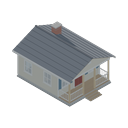
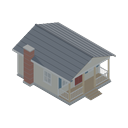
Structure rule: chimneys stand against an exterior wall; move the starter house chimney outside
The house's chimney stood in the middle of a room. It is now against the left exterior wall, from the ground up past the eaves.
The rule is in CLAUDE.md (3a) and docs/STRUCTURE_STAGES_GUIDE.md.

diff --git a/tools/make_house_stages.py b/tools/make_house_stages.py
@@ -375,14 +375,18 @@ def complete(b, c, M, glass, finishings=False):
         b.box(-0.82, 0.82, -d / 2 - 0.3 * (k + 1), -d / 2 - 0.3 * k, (z0 - 0.04) * (1 - (k + 1) * 0.28), (z0 - 0.04) * (1 - (k + 1) * 0.28) + 0.03, M['deck'])
     # the front door: its own object on a hinge, with panels and a small light
     door(parts['front'], c, M)
-    # brick chimney through the roof
-    cx, cy = 1.0, d / 2 - 1.6
-    b.box(cx - 0.4, cx + 0.4, cy - 0.3, cy + 0.3, z0, c.zr + 0.65, M['brick'])
-    b.box(cx - 0.46, cx + 0.46, cy - 0.36, cy + 0.36, c.zr + 0.6, c.zr + 0.72, M['concrete'])
-    for k in range(1, 8):                                                                                    # brick course lines
-        zz = z0 + 0.1 + k * 0.62
-        if zz < c.zr + 0.6:
-            b.box(cx - 0.41, cx + 0.41, cy - 0.31, cy + 0.31, zz, zz + 0.025, M['concrete_dark'])
+    # the chimney stands against an EXTERIOR wall (the left one), never inside a room (STRUCTURE_STAGES_GUIDE.md, rules): out from the wall
+    # by 0.5 m, from the ground up past the eaves, its last 0.1 m let into the wall
+    cy = d / 2 - 1.8
+    cx0, cx1 = -w / 2 - 0.5, -w / 2 + 0.1
+    ctop = c.zw + 1.0
+    b.box(cx0, cx1, cy - 0.45, cy + 0.45, 0.0, ctop, M['brick'])
+    b.box(cx0 - 0.06, cx1, cy - 0.51, cy + 0.51, ctop - 0.04, ctop + 0.08, M['concrete'])                    # the cap
+    b.box(cx0 - 0.06, cx1, cy - 0.51, cy + 0.51, c.z0 - 0.3, c.z0 - 0.05, M['concrete'])                     # the hearth's base course
+    for k in range(1, 7):                                                                                    # brick course lines, 6 mm proud
+        zz = 0.3 + k * 0.55
+        if zz < ctop - 0.1:
+            b.box(cx0 - 0.006, cx1, cy - 0.456, cy + 0.456, zz, zz + 0.025, M['concrete_dark'])
     # a downspout at the front corner
     b.box(w / 2 + 0.0, w / 2 + 0.07, c.yh0 - 0.1, c.yh0 - 0.03, z0, top - 0.1, M['trim'])
     for part in parts.values():

diff --git a/docs/STRUCTURE_STAGES_GUIDE.md b/docs/STRUCTURE_STAGES_GUIDE.md
@@ -118,6 +118,14 @@ in `starter_house.json` (`growth.stages[].construction_recipe` and `required_too
   manifest with `properties.look_*`, README), then `tools/finish_items_icons.py` renders their icons from the models. Add a row to `ITEMS`
   for a new finish; tags (`#paint`, `#flooring`, `#siding`, `#roofing`, `#brick`, `#chimney_masonry`) in `assets/_schemas/material_tags.json`.
 
+## Rules for structure models
+
+- **Chimneys stand against an exterior wall,** outside the footprint's walls, from the ground up past the eaves (the cabin's is on its -X wall,
+  the house's on its left wall): never in the middle of a room, where it would leave walkable space around it.
+- The shell has one door that is wide and tall enough for the player (1.2 m by 2.3 m) and walls clad or framed right up to the roof.
+- Layers that meet at a corner must not share a coplanar outer face (z-fighting): trim the side layers by the cladding thickness and let
+  corner boards stand 15 mm proud.
+
 ## 4. Checklist for a new structure
 
 1. Make sure `assets/structures/<id>/` has the group manifest and the four stage folders with stage manifests (the asset kit's growth group

diff --git a/CLAUDE.md b/CLAUDE.md
@@ -157,6 +157,12 @@ Every asset must live in `assets/<category>/<item_id>/`:
 
 ---
 
+## 3a. Structure Model Rules
+
+Building models follow [STRUCTURE_STAGES_GUIDE.md](file:///C:/Users/casey/Desktop/Homesteader/docs/STRUCTURE_STAGES_GUIDE.md): **a chimney stands against an EXTERIOR wall, never inside a room**;
+the door is 1.2 m by 2.3 m; walls reach the roof with no gap; layers meeting at a corner never share a coplanar outer face; parts are
+named objects (Foundation, Roof, Wall_*, WindowGlass, DoorHinge) and named materials (Log, Siding, Roof, Shingle, Interior, Floor, Masonry).
+
 ## 3b. Editor / Schema Sync Rule
 
 - Whenever a field changes in the asset kit rich editor (`assets/index.html`), update the matching base schema / category schema (`assets/_schemas/`), server validation (`tools/server.py`), manifest templates (`tools/process_queued_batch.py`, `docs/ASSET_CREATION_GUIDE.md`, `assets/_schemas/README.md`) and backfill existing manifests in the same change. The reverse also applies: schema or template changes must be reflected in the rich editor.
